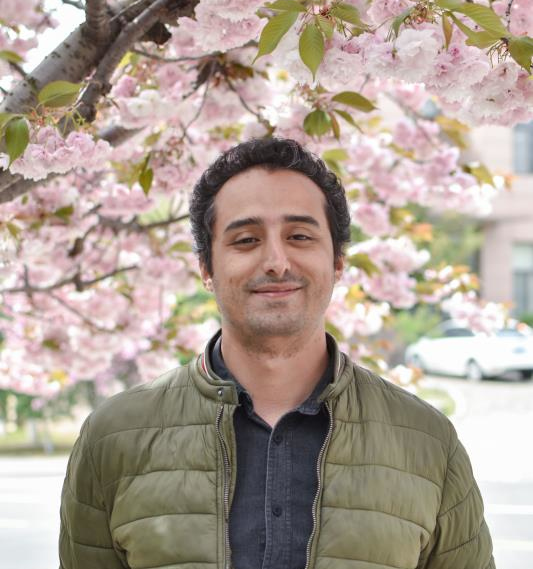
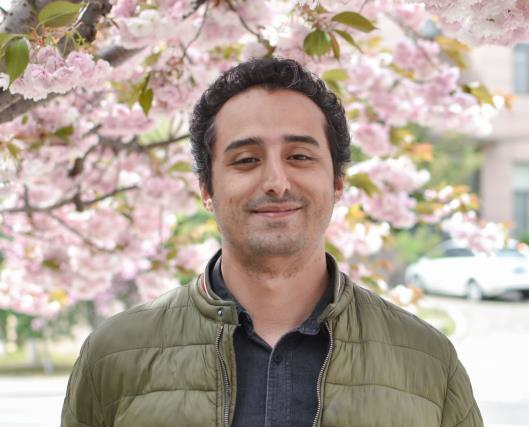
fixing text for mobile

diff --git a/scripts/languages_content.js b/scripts/languages_content.js
@@ -117,7 +117,7 @@ const languagesContent = {
 
     //Creative Coding
     creativeCodingTitle: "CREATIVE CODING",
-    creativeCodingSubtitle: "EIN TREFFPUNKT ZWISCHEN KUNST UND PROGRAMMIEREN",
+    creativeCodingSubtitle: "EINE BEGEGNUNG ZWISCHEN KUNST UND PROGRAMMIEREN",
     polygonFieldTitle: "ERWEITERNDES POLYGONFELD",
     polygonFieldText: "Ein interaktives, generatives System, in dem Benutzerklicks polygonale Emitter erzeugen, die sich mit der Zeit radial ausbreiten. Jeder Emitter erzeugt kontinuierlich wachsende, regelmäßige Polygone mit dynamischer Seitenzahl, während die Farboszillationen durch trigonometrische Funktionen gesteuert werden. Der halbtransparente Hintergrund erzeugt Bewegungsspuren, wodurch eine geschichtete, wellenartige Ausbreitung geometrischer Formen entsteht.",
     polygonFieldInstructions: "Anleitung: Klicke, um Formen hinzuzufügen; mit den Pfeiltasten nach oben/unten änderst du die Anzahl der Seiten. Mit der Leertaste löschst du die Arbeitsfläche.",

diff --git a/styles/global-text.css b/styles/global-text.css
@@ -501,7 +501,7 @@ a {
   }
 
   .text-new {
-    font-size: 1.3rem;
+    font-size: 1rem;
     line-height: 1.1;
     margin-left: 10px;
     margin-right: 10px;
